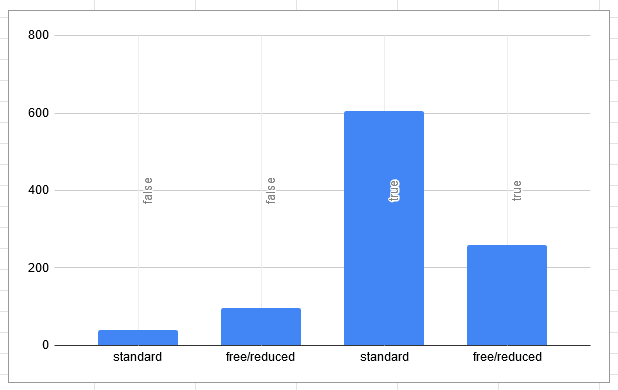
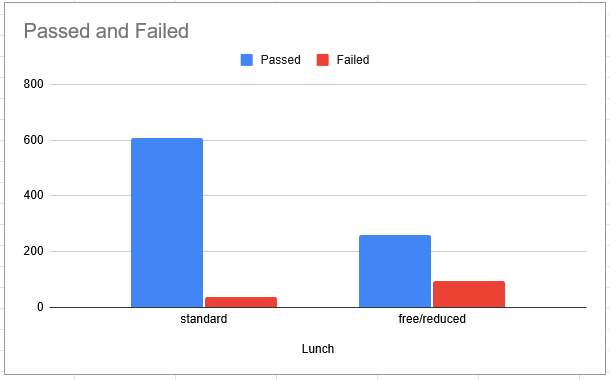
docs: fixes README broken link and updates graphs
This commit fixes the broken in the README.md file, as well as replacing
the graphs with doubled bar charts instead, as it's more clear and easy
to read and understand.

Resolves: #2, #3

diff --git a/README.md b/README.md
@@ -33,7 +33,7 @@ In this README.md file, I'll try to quickly go through the two scripts, as descr
 
 <a name="dataset"></a>
 ## Dataset
-Dataset used represents the data of 1000 students, it mainly contains some students attributes and their performance in 3 exams, math, reading, and writing exams. Attributes included in the data file are their gender, race/ethnicity, parental level of education, whether they ate their standard lunch meal, and whether they took their test preparation course. The full dataset and its description are on kaggle ![here](https://www.kaggle.com/spscientist/students-performance-in-exams/).
+Dataset used represents the data of 1000 students, it mainly contains some students attributes and their performance in 3 exams, math, reading, and writing exams. Attributes included in the data file are their gender, race/ethnicity, parental level of education, whether they ate their standard lunch meal, and whether they took their test preparation course. The full dataset and its description are on kaggle [here](https://www.kaggle.com/spscientist/students-performance-in-exams/).
 
 <a name="analysis"></a>
 ## Analysis
